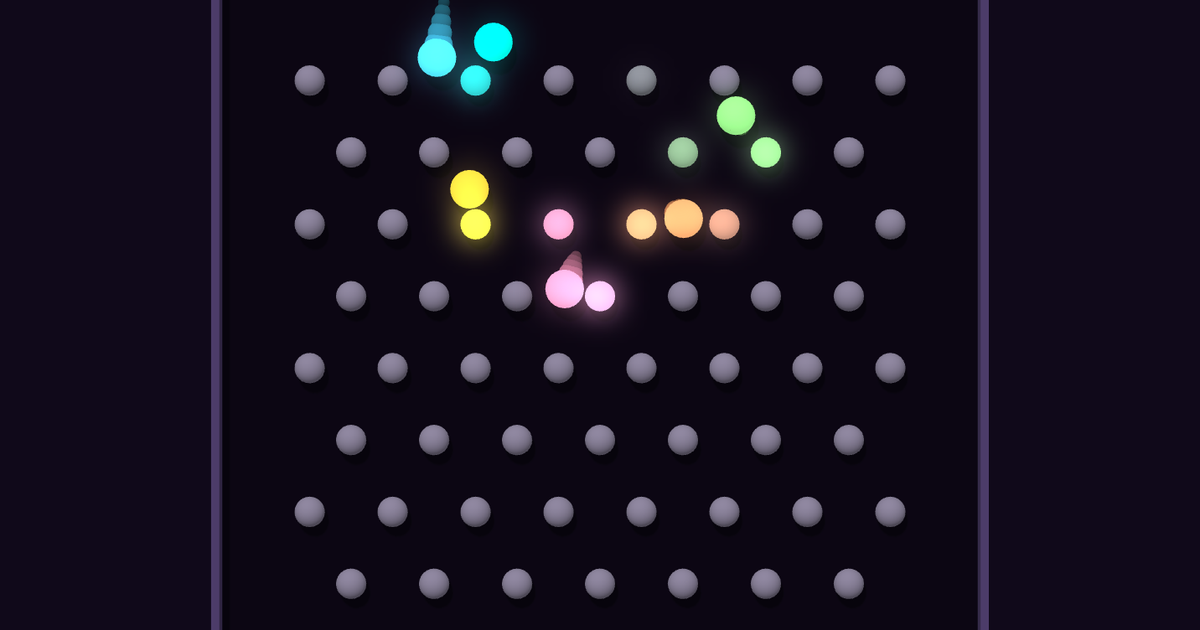
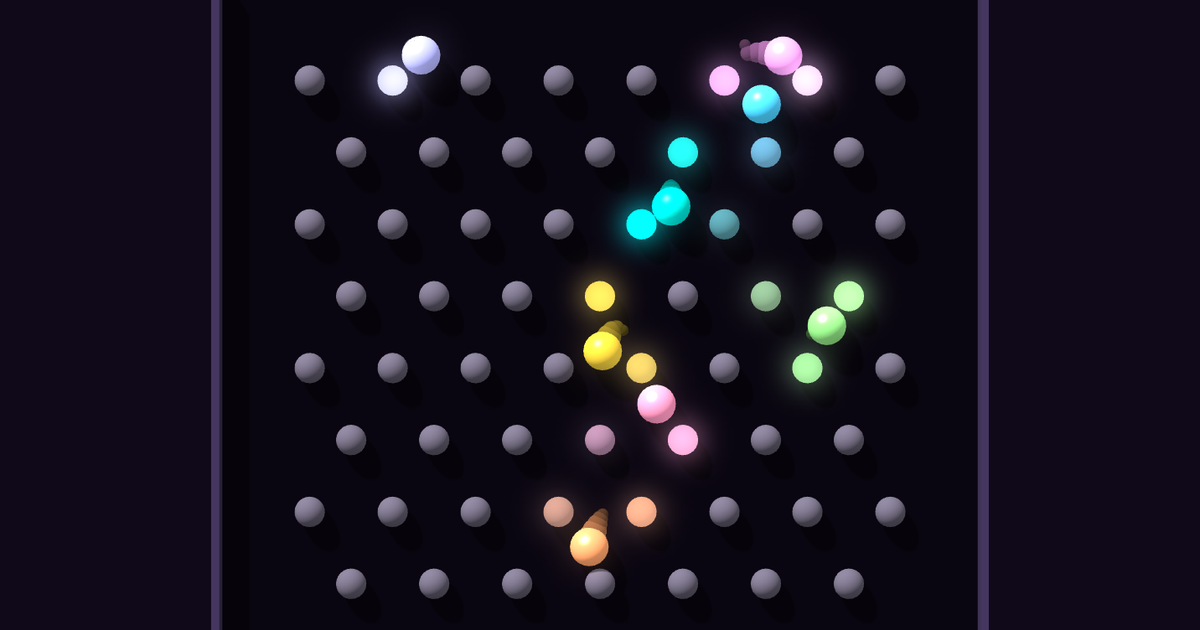
Plinko's balls as solid spheres; the day's ideas written down
The balls shone so brightly by their own light that they read as flat discs.
Now the sun is high and to one side, a ball has a bright side, a dark side, a
glint (gl.ts: gloss) and a shadow on the board, and only a little light of its
own. minis.md has the ideas from today: a word processor, a walking mini in
Rust, a small Rust physics engine, and the rest.

diff --git a/src/mote/gl.ts b/src/mote/gl.ts
@@ -29,6 +29,8 @@ export interface Look {
     ink?: Color;
     /** Drawn after everything else and in front of it, above the shade (see `View.shade`). */
     over?: boolean;
+    /** How shiny: from 0, dull, to 1, a bright spot where the sun glances off it toward the eye. Dull unless said. */
+    gloss?: number;
     /** Only what is written on it is drawn, not its faces: for words on something round, written on an unseen box around it. */
     bare?: boolean;
 }
@@ -104,13 +106,14 @@ layout(location = 1) in vec3 normal;
 layout(location = 2) in vec2 uv;
 layout(location = 3) in float group;
 uniform mat4 model, eye, sun;
-out vec3 facing;
+out vec3 facing, where;
 out vec4 lit;
 out vec2 at;
 out float which;
 void main() {
     vec4 world = model * vec4(position, 1.0);
     facing = mat3(model) * normal;
+    where = world.xyz;
     lit = sun * world;
     at = uv;
     which = group;
@@ -120,12 +123,13 @@ void main() {
 const FRAGMENT = `#version 300 es
 precision highp float;
 precision highp sampler2DShadow;
-in vec3 facing;
+in vec3 facing, where;
 in vec4 lit;
 in vec2 at;
 in float which;
 uniform vec4 color;
-uniform vec3 toSun, levels;
+uniform vec3 toSun, levels, eyeAt;
+uniform float gloss;
 uniform bool marked, shaded;
 uniform float glow, shine, emit;
 uniform bool glowing;
@@ -154,6 +158,8 @@ void main() {
     // the sun, by how squarely the face meets it, and light from the sky above and the ground below
     float bright = levels.x * max(dot(n, toSun), 0.0) * open + mix(levels.z, levels.y, n.y * 0.5 + 0.5);
     vec3 seen = pow(pow(base.rgb, vec3(2.2)) * bright, vec3(1.0 / 2.2));
+    // the sun's glint on something shiny: brightest where the face looks halfway between the sun and the eye
+    if (gloss > 0.0 && !marked) seen += gloss * open * pow(max(dot(n, normalize(toSun + normalize(eyeAt - where))), 0.0), 48.0);
     // a mark that is lit shows white, and by its own light; so does anything that shines, in its own color
     float white = marked && abs(which - glow) < 0.5 ? shine : 0.0;
     if (glowing) {
@@ -488,6 +494,7 @@ export function gl(canvas: HTMLCanvasElement): View | undefined {
             g.uniformMatrix4fv(main.at("eye"), false, times(perspective(eyeDegrees, canvas.width / canvas.height, 0.5, 120), facingMatrix(eyeFrom, eyeTo)));
             g.uniformMatrix4fv(main.at("sun"), false, sunMatrix);
             g.uniform3fv(main.at("toSun"), toSun);
+            g.uniform3fv(main.at("eyeAt"), eyeFrom);
             g.uniform3fv(main.at("levels"), levels);
             g.activeTexture(g.TEXTURE0);
             g.bindTexture(g.TEXTURE_2D, shadow);
@@ -504,6 +511,7 @@ export function gl(canvas: HTMLCanvasElement): View | undefined {
                 g.uniform1f(main.at("glow"), part.lit);
                 g.uniform1f(main.at("shine"), part.shine);
                 g.uniform1f(main.at("emit"), part.emit);
+                g.uniform1f(main.at("gloss"), part.look.gloss ?? 0);
                 g.uniform1i(main.at("shaded"), part.look.shaded === false ? 0 : 1);
                 g.bindVertexArray(marked ? part.marks! : part.faces);
                 g.drawArrays(g.TRIANGLES, 0, marked ? part.markCount : part.count);

diff --git a/src/minis/plinko.ts b/src/minis/plinko.ts
@@ -1,5 +1,6 @@
 // Plinko: a board that makes a password, seen straight on like an arcade machine. Balls drop one
-// after another through the pegs, which light as they are struck. Each bin shows a character; when
+// after another through the pegs, which light as they are struck. The world is flat; the balls are
+// drawn as the solid, shiny spheres they would be, each with its shadow on the board. Each bin shows a character; when
 // a ball lands in one, that character flies up to the next empty place in the password along the
 // top, and the bin is given another. What makes the password fair is in board.ts; here the board is
 // drawn, by Mote's 3D drawing, with its settings under it.
@@ -122,7 +123,8 @@ export default function plinko(m: Mote): Scene {
             blank.emit = 1;
             return blank;
         });
-        view.light([-3, 8, 14], [-wide / 2 - 0.5, -high / 2 - 2, -0.5], [wide / 2 + 0.5, high / 2 + 2, 0.5], 1.4, 0.75, 0.5);
+        // the sun high and to one side, so that a ball has a bright side, a dark side, and a shadow beside it on the board
+        view.light([-7, 11, 9], [-wide / 2 - 0.5, -high / 2 - 2, -0.5], [wide / 2 + 0.5, high / 2 + 2, 0.5], 1.7, 0.6, 0.3);
         aim();
     };
     /** The eye: straight in front, far enough back to see the board and the password above it. */
@@ -278,12 +280,13 @@ export default function plinko(m: Mote): Scene {
                 let drawn = balls.get(body);
                 if (!drawn) {
                     const color = view.color(`oklch(0.82 0.15 ${(balls.size * 47 + board.landings.length * 47) % 360})`);
-                    drawn = { color, been: [], part: view.add(ballMesh, { color }), tail: Array.from({ length: TRAIL }, (_, at) => view.add(ballMesh, { color: color.map((value) => value * (0.7 - at * 0.09)) as Color, casts: false })) };
+                    drawn = { color, been: [], part: view.add(ballMesh, { color, gloss: 0.7 }), tail: Array.from({ length: TRAIL }, (_, at) => view.add(ballMesh, { color: color.map((value) => value * (0.7 - at * 0.09)) as Color, casts: false })) };
                     balls.set(body, drawn);
                 }
                 const gone = since === undefined ? 0 : Math.min(1, (board.time - since) / 0.5);
                 drawn.part.at = place(body.x, body.y, 0.05);
-                drawn.part.emit = since === undefined ? 0.75 : 1.5 * (1 - gone);
+                // only a little light of its own while it falls, so that the sun and shade on it show it is round
+                drawn.part.emit = since === undefined ? 0.12 : 1.5 * (1 - gone);
                 drawn.part.scale = 1 - gone * gone;
                 drawn.tail.forEach((part, at) => {
                     part.hidden = !drawn.been[at] || since !== undefined;

diff --git a/minis.md b/minis.md
@@ -17,6 +17,7 @@ How to add one is in `src/mote/README.md`.
 
 - **Blocks** (toy): a pile of blocks. Double-click an empty spot, or press Space, for a new piece. Also what posts embed.
 - **Dice** (toy, 3D; was Table): a dice tower with real tumbling dice (Mote's own 3D physics and drawing). Dice are picked from pictures of each seen from above, or typed. When they land the eye goes up over the tray and each die's number lights. The D&D helper (fight and character views) was taken out on 11 Nov.
+- **Plinko** (toy): a flat arcade board that makes a password, drawn with Mote's 3D drawing so the balls are shaded spheres. Each ball that lands sends its bin's character up to the password.
 - **Archived on 11 Nov** (in `src/minis/archive/`, off the site, still building): Chain, Climb, Balance, Solid. Two that feel right were wanted over six that are fine. How to put one back is in the README there.
 - Mote has a project page at `/projects/mote/`, a logo (a speck in a beam of light) and tests (`bun run test`).
 - The list on `/minis/` shows each mini running, small.
@@ -53,6 +54,28 @@ From the conversation on 10 and 11 Nov:
     character, loud dice.
 11. For Climb: more of the mountain, a clock, a ghost of your best run.
 12. For the terminal: recordings of the full-screen menus, made with asciinema.
+
+From the conversation on 11 Nov, later:
+
+13. A word processor, as a project opened from the projects page (not a mini). Rich text like Word,
+    working from Markdown files, dead simple and fun to write in. Tables and images, find and
+    replace, a word count, print and PDF, several documents. Kept in the browser, files opened and
+    downloaded, real files edited in place where the browser can. Own code only. Made from the
+    site's own editor (`scripts/editor/`), which it replaces, and open for anyone to use.
+14. A mini where a person learns to walk in the browser, with the person to set up. In Rust
+    compiled to WebAssembly, a couple of crates allowed, made as small as it can be and under
+    512 KiB.
+15. A small physics engine in Rust, 50 KiB or less, first for the walking mini. Whether Dice and
+    Blocks move onto it is a later question.
+16. A game where something is pulled back and flung, and planets bend its path toward a target.
+17. Likes on photos, and a guestbook where entries wait to be approved. Both need the site's first
+    code on a server.
+18. A licensing page of the site's own, in plain words, that the footer's license link opens,
+    in place of Creative Commons' page. Maybe as part of a public wiki about her, her projects and
+    licensing.
+19. More queer memes among the shitposts.
+20. Plinko as a table in real 3D with a character on every ball was built and taken back the same
+    day: it looked weird. The balls and round posts it needed are still in `space.ts`.
 
 ## Not doing
 
